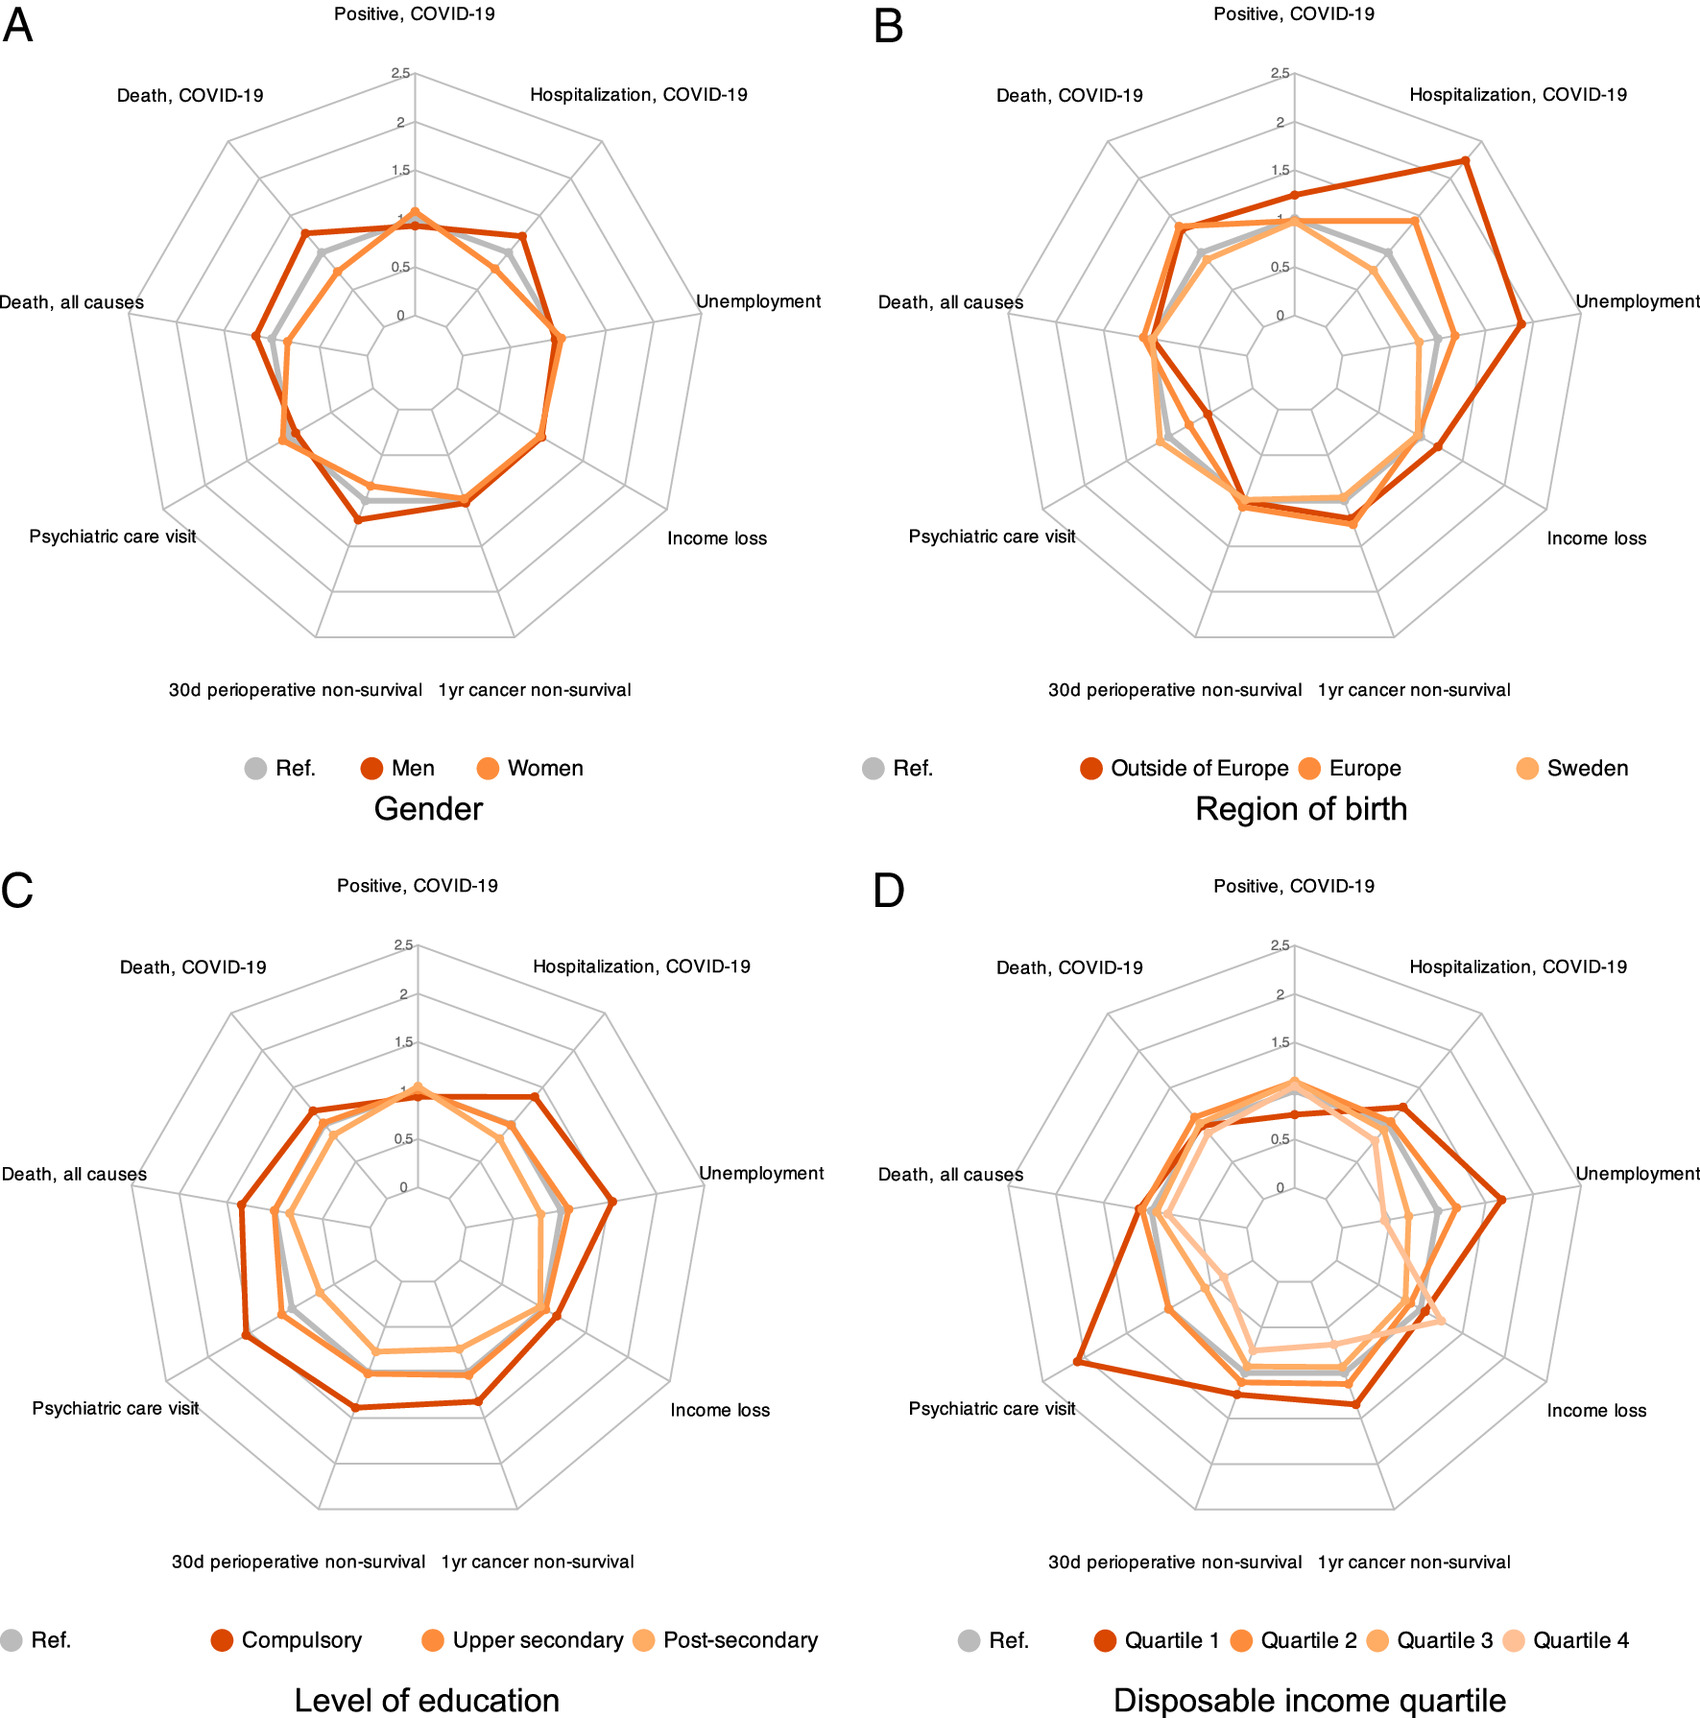
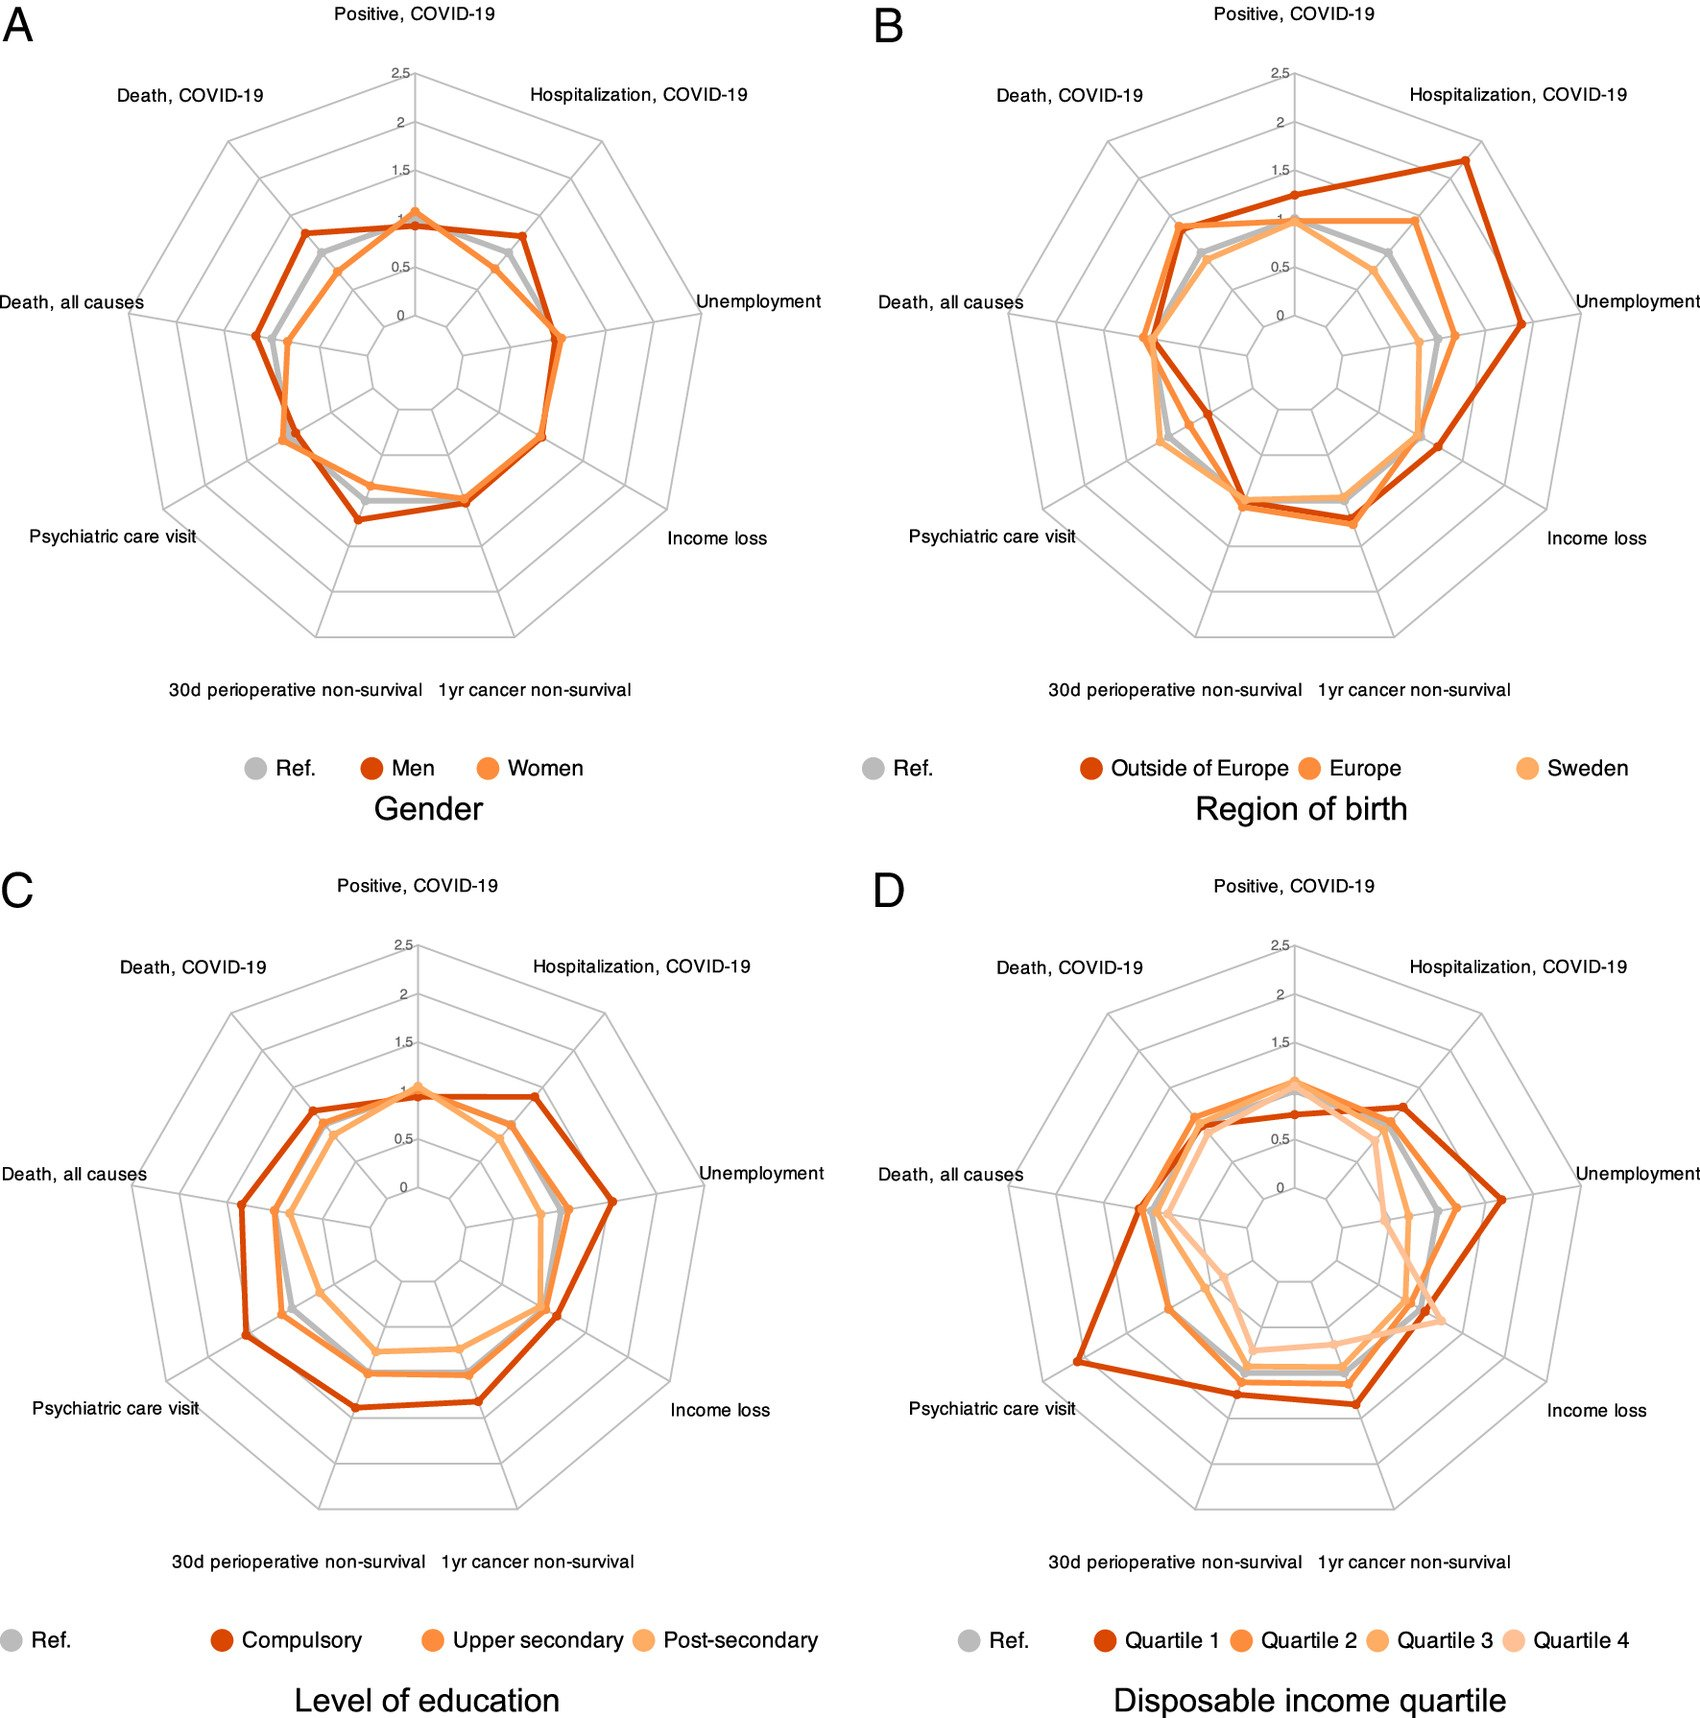
Add click-to-fullscreen lightbox and optimize figure images
Lightbox uses a native <dialog> element with minimal JS (~15 lines).
Click any paper figure to open fullscreen with caption; close by
clicking anywhere or pressing Escape. Styled with zoom-in/out cursors
and dark backdrop.

Re-extracted figures from source PDFs at 600 DPI for sharper rendering.
Converted large PNGs to optimized JPEGs to keep all figures under 300K.
Trimmed white space and added equal margins on all figures.

diff --git a/themes/researcher/assets/scss/_main.scss b/themes/researcher/assets/scss/_main.scss
@@ -360,6 +360,7 @@ article {
     .paper-figure {
       margin: 1.5rem 0;
       text-align: center;
+      cursor: zoom-in;
 
       img {
         max-width: 100%;
@@ -368,6 +369,7 @@ article {
         @media (min-width: $bp-sm) {
           max-width: 80%;
         }
+
         border: 1px solid rgba(0, 0, 0, 0.1);
         border-radius: 0.375rem;
       }
@@ -379,6 +381,7 @@ article {
         @media (min-width: $bp-sm) {
           max-width: 80%;
         }
+
         font-size: $font-size-sm;
         color: $text-muted;
         text-align: justify;
@@ -406,6 +409,52 @@ article {
       a:hover { color: $link-hover-color; }
     }
 
+  }
+}
+
+.lightbox {
+  border: none;
+  background: none;
+  max-width: none;
+  max-height: none;
+  width: 100%;
+  height: 100%;
+  padding: 2rem;
+  cursor: zoom-out;
+
+  &::backdrop {
+    background: rgba(0, 0, 0, 0.85);
+  }
+
+  &[open] {
+    display: flex;
+    flex-direction: column;
+    align-items: center;
+    justify-content: center;
+    overflow-y: auto;
+  }
+
+  figure {
+    margin: 0;
+    display: flex;
+    flex-direction: column;
+    align-items: center;
+    flex-shrink: 0;
+  }
+
+  img {
+    max-width: 100%;
+    max-height: calc(100vh - 10rem);
+    object-fit: contain;
+    border-radius: 0.375rem;
+  }
+
+  figcaption {
+    max-width: 80ch;
+    margin-top: 1rem;
+    font-size: $font-size-sm;
+    color: rgba(255, 255, 255, 0.8);
+    text-align: justify;
   }
 }
 

diff --git a/themes/researcher/layouts/partials/scripts.html b/themes/researcher/layouts/partials/scripts.html
@@ -32,6 +32,31 @@ document.addEventListener('click', function(e) {
     return;
   }
 
+  var fig = e.target.closest('.paper-figure');
+  if (fig) {
+    var origImg = fig.querySelector('img');
+    if (!origImg) return;
+    var dialog = document.createElement('dialog');
+    dialog.className = 'lightbox';
+    var figure = document.createElement('figure');
+    var img = document.createElement('img');
+    img.src = origImg.src;
+    img.alt = origImg.alt;
+    figure.appendChild(img);
+    var cap = fig.querySelector('figcaption');
+    if (cap) {
+      var figcaption = document.createElement('figcaption');
+      figcaption.textContent = cap.textContent;
+      figure.appendChild(figcaption);
+    }
+    dialog.appendChild(figure);
+    dialog.addEventListener('click', function() { dialog.close(); });
+    dialog.addEventListener('close', function() { dialog.remove(); });
+    document.body.appendChild(dialog);
+    dialog.showModal();
+    return;
+  }
+
   var btn = e.target.closest('.btn-copy-bibtex');
   if (btn) {
     var text = btn.closest('.card-body').querySelector('pre code').textContent;
